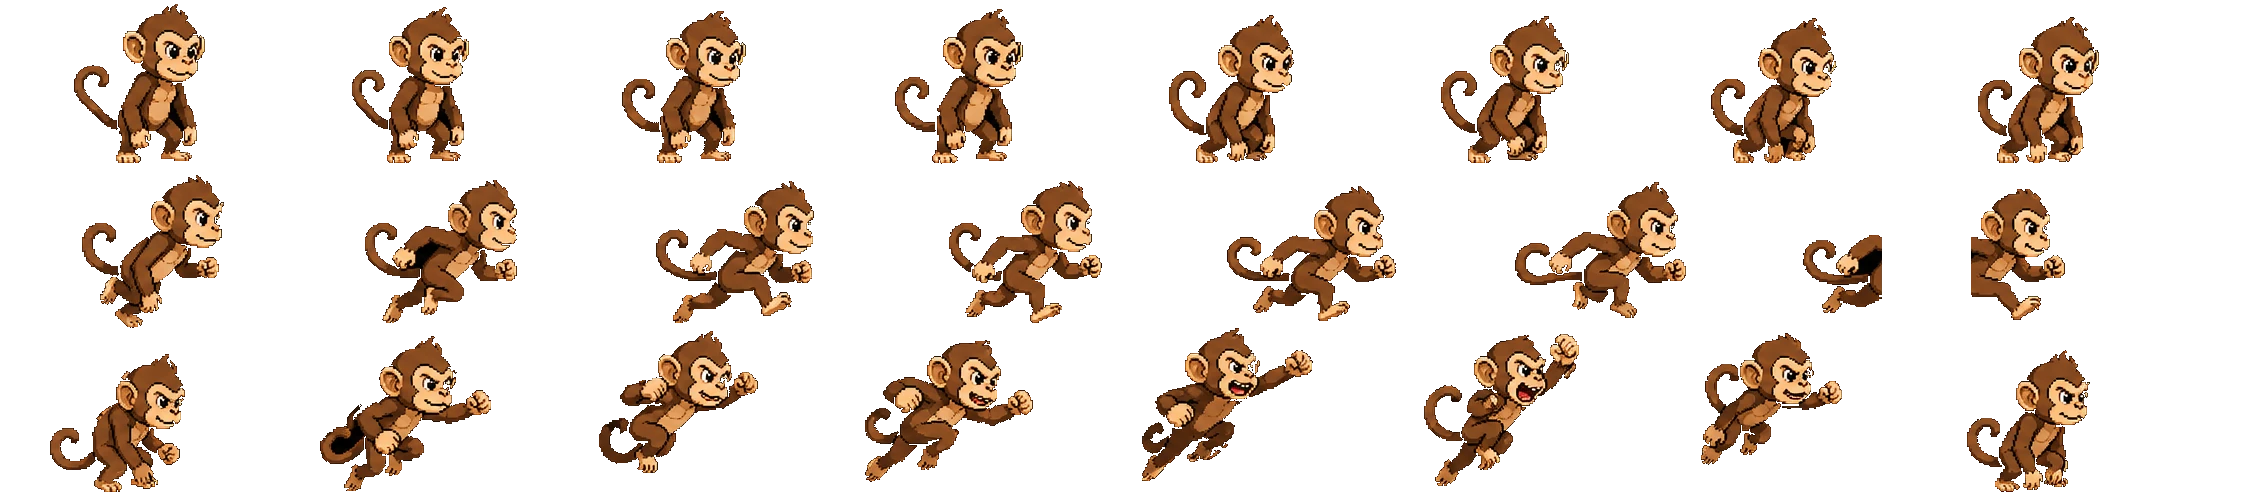
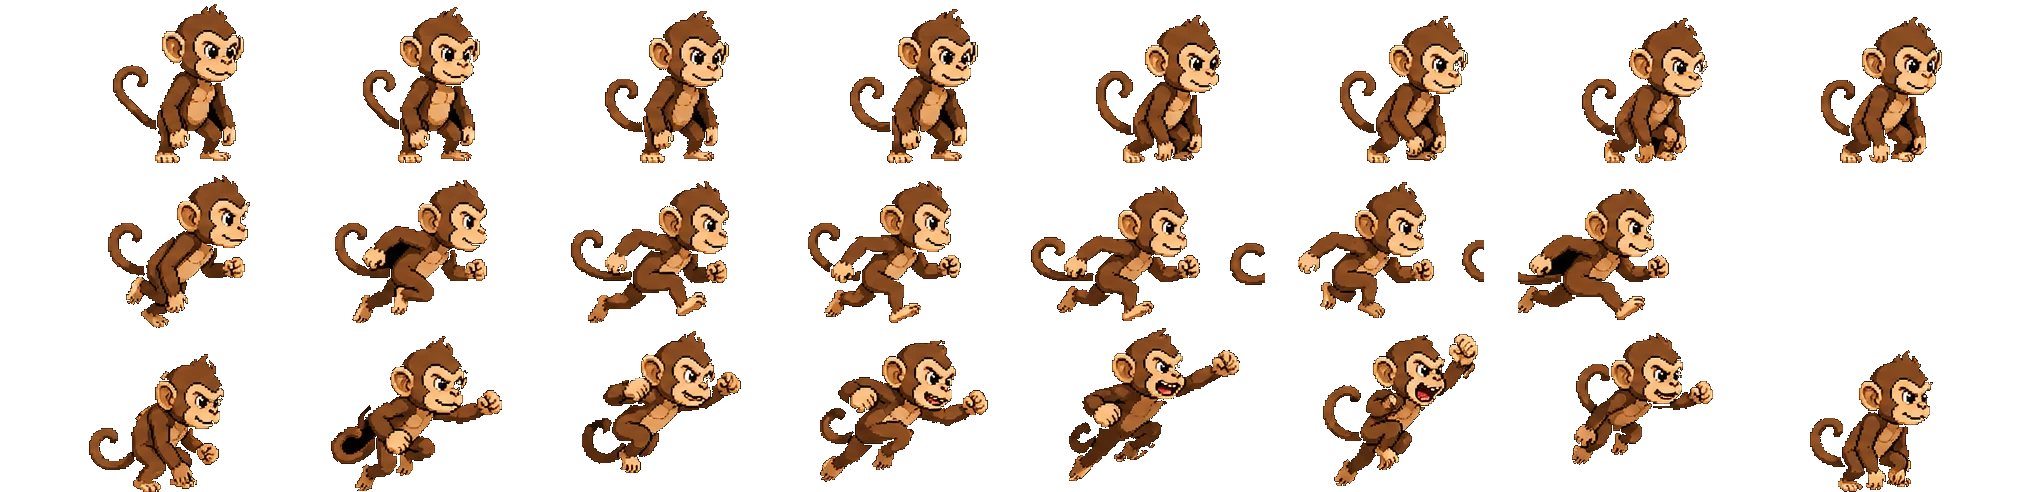
fix(assets): 칸 수를 줄마다 따로 잡는다
지적대로 아직 잘려 있었다. 시트 하나에 칸 수를 하나만 두고 있었는데,
**한 시트 안에서도 줄마다 프레임 수가 다르다** — 말은 8 / 7 / 8 이다.
걷는 줄의 말 7마리를 8칸으로 가르니 한 마리가 꼬리와 머리로 쪼개졌다.

이제 줄마다 따로 센다. 한 마리의 폭을 먼저 구하고, 구간이 그 폭의 몇 배인지로 센다.

- 기준 줄은 구간이 4~12개로 나뉜 줄 중 가장 많이 나뉜 줄이다.
  무작정 가장 많이 나뉜 줄을 고르면 조각난 줄이 뽑혀 기준폭이 다리 한 짝이 된다
  (실제로 17px 로 잡혀 한 줄이 72칸이 됐다)
- 한 마리로 볼 폭의 상한은 기준폭의 1.45배. 달리는 자세는 서 있는 자세보다 넓다 —
  말은 164 대 212 다

칸 경계는 격자 자리에서 출발해 실제로 비어 있는 열로 옮긴다.
격자 그대로면 꼬리가 날아가고, 빈 구간만 보면 한 마리 안(목·허리)을 가른다.

겹쳐 그려져 빈 열이 없는 자리는 가장 얇은 열로 가르는데 부리를 스칠 때가 있어,
본체의 3% 도 안 되는 덩어리는 털어 낸다.

줄마다 프레임 수가 다르므로 SheetMeta 에 frames 를 실었다.
없으면 걷다가 빈 칸에서 동물이 한 번씩 사라진다.

22종 24칸을 전부 눈으로 확인했다.

diff --git a/src/assets/animalSheets.ts b/src/assets/animalSheets.ts
@@ -38,29 +38,31 @@ export interface AnimalSheetAsset {
   /** 격자 크기. 시트마다 다르다 — 닭과 까마귀와 공작은 7칸이다. */
   readonly cols: number
   readonly rows: number
+  /** 줄마다의 실제 프레임 수. 한 시트 안에서도 다르다 — 말은 8/7/8 이다. */
+  readonly frames: readonly number[]
 }
 
 export const ANIMAL_SHEETS: readonly AnimalSheetAsset[] = [
-  { id: 'ALIGATOR', habitat: 'WATER', src: sheet0, fit: 0.8182, baseline: 1.0, frameW: 248, frameH: 88, cols: 8, rows: 3 },
-  { id: 'BELUGA', habitat: 'WATER', src: sheet1, fit: 0.5329, baseline: 1.0, frameW: 216, frameH: 152, cols: 8, rows: 3 },
-  { id: 'MARLIN', habitat: 'WATER', src: sheet2, fit: 0.6287, baseline: 1.0, frameW: 256, frameH: 167, cols: 8, rows: 3 },
-  { id: 'PENGUIN', habitat: 'WATER', src: sheet3, fit: 0.7317, baseline: 1.0, frameW: 213, frameH: 123, cols: 8, rows: 3 },
-  { id: 'PIRANHA', habitat: 'WATER', src: sheet4, fit: 0.7606, baseline: 1.0, frameW: 219, frameH: 142, cols: 8, rows: 3 },
-  { id: 'SHARK', habitat: 'WATER', src: sheet5, fit: 0.7241, baseline: 1.0, frameW: 240, frameH: 145, cols: 8, rows: 3 },
-  { id: 'TURTLE', habitat: 'WATER', src: sheet6, fit: 0.6352, baseline: 1.0, frameW: 224, frameH: 159, cols: 8, rows: 3 },
-  { id: 'BEAR', habitat: 'LAND', src: sheet7, fit: 0.678, baseline: 1.0, frameW: 218, frameH: 205, cols: 8, rows: 3 },
-  { id: 'HORSE', habitat: 'LAND', src: sheet8, fit: 0.8102, baseline: 1.0, frameW: 321, frameH: 216, cols: 8, rows: 3 },
-  { id: 'MONKEY', habitat: 'LAND', src: sheet9, fit: 0.9756, baseline: 1.0, frameW: 281, frameH: 164, cols: 8, rows: 3 },
-  { id: 'ORANGUTAN', habitat: 'LAND', src: sheet10, fit: 0.6944, baseline: 1.0, frameW: 237, frameH: 216, cols: 8, rows: 3 },
-  { id: 'POLARBEAR', habitat: 'LAND', src: sheet11, fit: 0.6452, baseline: 1.0, frameW: 213, frameH: 186, cols: 8, rows: 3 },
-  { id: 'RABBIT', habitat: 'LAND', src: sheet12, fit: 0.9839, baseline: 1.0, frameW: 305, frameH: 186, cols: 8, rows: 3 },
-  { id: 'TIGGER', habitat: 'LAND', src: sheet13, fit: 0.7308, baseline: 1.0, frameW: 280, frameH: 156, cols: 8, rows: 3 },
-  { id: 'BUTTERFLY', habitat: 'SKY', src: sheet14, fit: 1.0, baseline: 1.0, frameW: 179, frameH: 163, cols: 8, rows: 3 },
-  { id: 'CHICKEN', habitat: 'SKY', src: sheet15, fit: 1.0, baseline: 1.0, frameW: 233, frameH: 185, cols: 7, rows: 3 },
-  { id: 'CROW', habitat: 'SKY', src: sheet16, fit: 1.0, baseline: 1.0, frameW: 252, frameH: 194, cols: 7, rows: 3 },
-  { id: 'DRAGONFLY', habitat: 'SKY', src: sheet17, fit: 1.0, baseline: 1.0, frameW: 213, frameH: 136, cols: 8, rows: 3 },
-  { id: 'PARROT', habitat: 'SKY', src: sheet18, fit: 0.855, baseline: 1.0, frameW: 239, frameH: 200, cols: 8, rows: 3 },
-  { id: 'PEACOCK', habitat: 'SKY', src: sheet19, fit: 0.9412, baseline: 1.0, frameW: 275, frameH: 187, cols: 7, rows: 3 },
-  { id: 'PIGEON', habitat: 'SKY', src: sheet20, fit: 0.9935, baseline: 1.0, frameW: 182, frameH: 153, cols: 8, rows: 3 },
-  { id: 'SPAROW', habitat: 'SKY', src: sheet21, fit: 0.9209, baseline: 1.0, frameW: 231, frameH: 177, cols: 8, rows: 3 },
+  { id: 'ALIGATOR', habitat: 'WATER', src: sheet0, fit: 0.8182, baseline: 1.0, frameW: 233, frameH: 88, cols: 8, rows: 3, frames: [8, 8, 8] },
+  { id: 'BELUGA', habitat: 'WATER', src: sheet1, fit: 0.5329, baseline: 1.0, frameW: 216, frameH: 152, cols: 8, rows: 3, frames: [8, 8, 8] },
+  { id: 'MARLIN', habitat: 'WATER', src: sheet2, fit: 0.6287, baseline: 1.0, frameW: 226, frameH: 167, cols: 8, rows: 3, frames: [8, 8, 8] },
+  { id: 'PENGUIN', habitat: 'WATER', src: sheet3, fit: 0.7317, baseline: 1.0, frameW: 213, frameH: 123, cols: 8, rows: 3, frames: [8, 8, 8] },
+  { id: 'PIRANHA', habitat: 'WATER', src: sheet4, fit: 0.7606, baseline: 1.0, frameW: 212, frameH: 142, cols: 8, rows: 3, frames: [8, 8, 8] },
+  { id: 'SHARK', habitat: 'WATER', src: sheet5, fit: 0.7241, baseline: 1.0, frameW: 217, frameH: 145, cols: 8, rows: 3, frames: [8, 8, 8] },
+  { id: 'TURTLE', habitat: 'WATER', src: sheet6, fit: 0.6352, baseline: 1.0, frameW: 224, frameH: 159, cols: 8, rows: 3, frames: [8, 8, 8] },
+  { id: 'BEAR', habitat: 'LAND', src: sheet7, fit: 0.678, baseline: 1.0, frameW: 218, frameH: 205, cols: 8, rows: 3, frames: [8, 8, 8] },
+  { id: 'HORSE', habitat: 'LAND', src: sheet8, fit: 0.8102, baseline: 1.0, frameW: 223, frameH: 216, cols: 8, rows: 3, frames: [8, 7, 8] },
+  { id: 'MONKEY', habitat: 'LAND', src: sheet9, fit: 0.9756, baseline: 1.0, frameW: 253, frameH: 164, cols: 8, rows: 3, frames: [8, 7, 8] },
+  { id: 'ORANGUTAN', habitat: 'LAND', src: sheet10, fit: 0.6944, baseline: 1.0, frameW: 270, frameH: 216, cols: 8, rows: 3, frames: [8, 7, 8] },
+  { id: 'POLARBEAR', habitat: 'LAND', src: sheet11, fit: 0.6452, baseline: 1.0, frameW: 213, frameH: 186, cols: 8, rows: 3, frames: [8, 8, 8] },
+  { id: 'RABBIT', habitat: 'LAND', src: sheet12, fit: 0.9839, baseline: 1.0, frameW: 202, frameH: 186, cols: 8, rows: 3, frames: [8, 7, 8] },
+  { id: 'TIGGER', habitat: 'LAND', src: sheet13, fit: 0.7308, baseline: 1.0, frameW: 267, frameH: 156, cols: 8, rows: 3, frames: [8, 8, 8] },
+  { id: 'BUTTERFLY', habitat: 'SKY', src: sheet14, fit: 1.0, baseline: 1.0, frameW: 179, frameH: 163, cols: 8, rows: 3, frames: [8, 8, 8] },
+  { id: 'CHICKEN', habitat: 'SKY', src: sheet15, fit: 1.0, baseline: 1.0, frameW: 233, frameH: 185, cols: 7, rows: 3, frames: [7, 7, 7] },
+  { id: 'CROW', habitat: 'SKY', src: sheet16, fit: 1.0, baseline: 1.0, frameW: 252, frameH: 194, cols: 7, rows: 3, frames: [7, 7, 7] },
+  { id: 'DRAGONFLY', habitat: 'SKY', src: sheet17, fit: 1.0, baseline: 1.0, frameW: 213, frameH: 136, cols: 8, rows: 3, frames: [8, 8, 8] },
+  { id: 'PARROT', habitat: 'SKY', src: sheet18, fit: 0.855, baseline: 1.0, frameW: 231, frameH: 200, cols: 8, rows: 3, frames: [8, 8, 8] },
+  { id: 'PEACOCK', habitat: 'SKY', src: sheet19, fit: 0.9412, baseline: 1.0, frameW: 275, frameH: 187, cols: 7, rows: 3, frames: [7, 7, 7] },
+  { id: 'PIGEON', habitat: 'SKY', src: sheet20, fit: 0.9935, baseline: 1.0, frameW: 182, frameH: 153, cols: 8, rows: 3, frames: [8, 8, 8] },
+  { id: 'SPAROW', habitat: 'SKY', src: sheet21, fit: 0.9209, baseline: 1.0, frameW: 231, frameH: 177, cols: 8, rows: 3, frames: [8, 8, 8] },
 ]

diff --git a/src/render/animal/SheetRenderer.ts b/src/render/animal/SheetRenderer.ts
@@ -24,7 +24,9 @@ export class SheetRenderer implements AnimalRenderer {
 
   draw(ctx: CanvasRenderingContext2D, state: AnimalRenderState, view: ViewBox): void {
     const row = Math.max(0, this.meta.motions.indexOf(state.motion))
-    const frame = Math.floor(state.motionTime * this.meta.fps) % this.meta.cols
+    // 줄마다 프레임 수가 다를 수 있다. 모르면 빈 칸에서 동물이 한 번씩 사라진다.
+    const count = this.meta.frames?.[row] ?? this.meta.cols
+    const frame = Math.floor(state.motionTime * this.meta.fps) % Math.max(1, count)
 
     // `scale` 은 **동물의 높이**지 프레임의 높이가 아니다.
     // 여백이 있는 시트는 프레임을 그만큼 크게 그려야 동물이 제 크기로 나온다.

diff --git a/src/domain/animal.ts b/src/domain/animal.ts
@@ -29,6 +29,13 @@ export interface SheetMeta {
   fit?: number
   /** 프레임 안에서 발이 놓이는 y (0..1). 기본 1(프레임 아래변). */
   baseline?: number
+  /**
+   * 줄마다의 실제 프레임 수. 없으면 모든 줄이 `cols` 만큼이라고 본다.
+   *
+   * 한 시트 안에서도 줄마다 다르다 — 말은 서 있는 줄이 8칸인데 걷는 줄은 7칸이다.
+   * 이걸 모르면 걷다가 빈 칸에서 동물이 한 번씩 사라진다.
+   */
+  frames?: readonly number[]
 }
 
 /**

diff --git a/src/store/gameStore.ts b/src/store/gameStore.ts
@@ -504,6 +504,7 @@ export const useGameStore = create<GameState>((set, get) => ({
         imageId: sheetImageId(item.catalogId),
         cols: item.sheet.cols,
         rows: item.sheet.rows,
+        frames: item.sheet.frames,
         // 한 줄이 1초에 한 바퀴 돈다. 칸이 7개면 조금 느리게 돈다.
         fps: item.sheet.cols,
         motions: ['IDLE', 'MOVE', 'SIGNATURE'],

diff --git a/scripts/prepare-assets.py b/scripts/prepare-assets.py
@@ -57,8 +57,13 @@ ANIMAL_PREFIX = "sprite_animal_"
 ANIMAL_THRESHOLD = 16
 # 작은 틈을 메울 때의 기준(px). 몸에서 떨어져 나온 다리를 몸에 붙이는 데 쓴다.
 GAP_CLOSE = 12
-# 한 줄에 이보다 많은 칸이 나오면 조각난 것으로 본다.
-MAX_FRAMES = 10
+# 한 줄의 칸 수로 그럴듯한 범위. 벗어나면 붙었거나 조각난 줄로 본다.
+FRAMES_MIN = 4
+FRAMES_MAX = 12
+# 한 마리로 볼 폭의 상한(기준폭 대비). 달리는 자세는 서 있는 자세보다 넓다 — 말은 164 대 212 다.
+SINGLE_SLACK = 1.45
+# 본체 대비 이 비율보다 작은 덩어리는 옆 그림에서 스친 조각으로 본다.
+DUST_RATIO = 0.03
 # 붙어 버린 칸을 가를 때 기대 위치에서 옮길 수 있는 폭(칸 폭 대비).
 SEAM_REACH = 0.25
 
@@ -174,77 +179,121 @@ def close_gaps(spans: list[tuple[int, int]], min_gap: int) -> list[tuple[int, in
     return [(lo, hi) for lo, hi in out]
 
 
-def frame_count(mask: np.ndarray, rows: list[tuple[int, int]]) -> int:
-    """
-    이 시트가 한 줄에 **몇 칸**인지.
-
-    8칸으로 정해 두면 안 된다 — 닭과 까마귀는 7칸, 공작도 7칸이다.
-    그렇다고 빈 구간을 세기만 해도 안 된다. 옆 프레임과 붙으면 수가 줄고,
-    다리가 몸에서 떨어지면 늘어난다 (말의 필살기 줄은 구간이 16개다).
-
-    그래서 **원본 그대로** 세어 보고, **작은 틈을 메우고도** 세어 본다.
-    전자는 붙은 경우에 약하고 후자는 조각난 경우에 약하니, 둘 중 큰 쪽을 쓴다.
-    말이 안 되게 큰 수(조각난 줄)는 버린다.
-    """
-    counts = [1]
-    for min_gap in (0, GAP_CLOSE):
-        for y0, y1 in rows:
-            spans = runs_of(mask[y0:y1].any(axis=0))
-            if min_gap:
-                spans = close_gaps(spans, min_gap)
-            if 1 <= len(spans) <= MAX_FRAMES:
-                counts.append(len(spans))
-    return max(counts)
-
-
-def row_cells(band: np.ndarray, count: int) -> list[tuple[int, int]]:
-    """
-    한 줄을 정확히 `count` 칸으로 나눈다. 각 칸은 그 프레임의 가로 범위다.
-
-    **격자로 자르지 않는다.** 그림이 칸 간격에 딱 맞게 그려져 있지 않아
-    격자로 자르면 꼬리와 주둥이가 날아간다. 대신 실제로 비어 있는 자리에서 나눈다.
-
-    구간이 남으면 가장 좁은 틈부터 메워 수를 맞추고,
-    모자라면 붙어 버린 구간을 **세로 잉크가 가장 얇은 열**에서 가른다.
-    """
+def _spans(band: np.ndarray, min_gap: int = 0) -> list[tuple[int, int]]:
     spans = runs_of(band.any(axis=0))
-    if not spans:
-        return [(0, band.shape[1])]
+    return close_gaps(spans, min_gap) if min_gap else spans
 
-    # 많으면 좁은 틈부터 메운다. 몸에서 떨어진 다리가 제 몸으로 돌아간다.
-    while len(spans) > count:
-        gaps = [(spans[i + 1][0] - spans[i][1], i) for i in range(len(spans) - 1)]
-        _, i = min(gaps)
-        spans[i : i + 2] = [(spans[i][0], spans[i + 1][1])]
 
-    # 모자라면 넓은 구간을 가른다. 몇 칸이 붙었는지는 폭으로 가늠한다.
+def single_width(mask: np.ndarray, rows: list[tuple[int, int]]) -> float:
+    """
+    이 시트에서 **한 마리가 차지하는 폭**.
+
+    기준 줄은 구간이 그럴듯한 개수(4~12)로 나뉜 줄 중 가장 많이 나뉜 줄이다.
+    가장 많이 나뉜 줄을 무작정 고르면 안 된다 — 다리가 몸에서 떨어진 줄은
+    구간이 16~17개까지 늘어나고, 그 중앙값은 다리 한 짝의 폭이다
+    (실제로 기준폭이 17px 로 잡혀 한 줄이 72칸이 된 적이 있다).
+    """
+    best: list[tuple[int, int]] = []
+    for y0, y1 in rows:
+        for spans in (_spans(mask[y0:y1]), _spans(mask[y0:y1], GAP_CLOSE)):
+            if FRAMES_MIN <= len(spans) <= FRAMES_MAX and len(spans) > len(best):
+                best = spans
+    if not best:
+        best = max((_spans(mask[y0:y1]) for y0, y1 in rows), key=len, default=[(0, mask.shape[1])])
+    return float(np.median([hi - lo for lo, hi in best])) or 1.0
+
+
+def row_frames(mask: np.ndarray, rows: list[tuple[int, int]], single: float) -> list[int]:
+    """
+    **줄마다** 프레임이 몇 개인지.
+
+    한 시트 안에서도 줄마다 다르다 — 말은 서 있는 줄이 8칸인데 걷는 줄은 **7칸**이다.
+    시트 하나에 한 숫자를 쓰면 그 줄의 말 한 마리가 두 칸으로 쪼개진다.
+
+    구간 하나가 한 마리인지 여러 마리가 붙은 것인지는 폭으로 가른다.
+    달리는 자세는 서 있는 자세보다 넓으므로 여유를 둔다 — 말은 164 대 212 다.
+    """
+    # 모든 구간이 한 마리 폭인 줄은 믿을 만하다. 그런 줄의 최대 개수를 상한으로 삼는다.
+    cap = 0
+    for y0, y1 in rows:
+        for spans in (_spans(mask[y0:y1]), _spans(mask[y0:y1], GAP_CLOSE)):
+            if not (FRAMES_MIN <= len(spans) <= FRAMES_MAX):
+                continue
+            if all(hi - lo <= single * SINGLE_SLACK for lo, hi in spans):
+                cap = max(cap, len(spans))
+
+    counts = []
+    for y0, y1 in rows:
+        total = 0
+        for lo, hi in _spans(mask[y0:y1], GAP_CLOSE):
+            width = hi - lo
+            total += 1 if width <= single * SINGLE_SLACK else max(1, round(width / single))
+        counts.append(min(total, cap) if cap else total)
+    return counts
+
+
+def row_cells(band: np.ndarray, count: int, width: int) -> list[tuple[int, int]]:
+    """
+    한 줄을 정확히 `count` 칸으로 나눈다.
+
+    경계는 **격자 자리에서 출발해 실제로 비어 있는 열로 옮긴다.**
+
+    격자 그대로 자르면 그림이 칸 간격보다 넓은 곳에서 꼬리와 주둥이가 날아간다.
+    반대로 빈 구간만 보고 나누면 **한 마리 안을 가른다** —
+    두 프레임이 붙어 있으면 그 사이보다 한 마리 안(목·허리)이 더 얇을 수 있기 때문이다.
+
+    프레임은 고르게 놓여 있으니 격자가 "어디쯤"을, 빈 열이 "정확히 어디"를 알려 준다.
+    """
+    pitch = width / count
     profile = band.sum(axis=0)
-    while len(spans) < count:
-        typical = np.median([hi - lo for lo, hi in spans])
-        widest = max(range(len(spans)), key=lambda i: spans[i][1] - spans[i][0])
-        lo, hi = spans[widest]
-        parts = max(2, min(count - len(spans) + 1, round((hi - lo) / max(1.0, typical))))
-        seam = _thinnest(profile, lo, hi, parts)
-        spans[widest : widest + 1] = [(lo, seam), (seam, hi)]
+    reach = max(1, int(pitch * SEAM_REACH))
 
-    return spans
+    edges = [0]
+    for i in range(1, count):
+        nominal = pitch * i
+        lo = max(1, int(nominal - reach))
+        hi = min(width - 1, int(nominal + reach))
+        if hi <= lo:
+            edges.append(int(nominal))
+            continue
+
+        window = profile[lo:hi]
+        empty = np.where(window == 0)[0]
+        if empty.size:
+            # 빈 열 중 격자 자리에 가장 가까운 것. 두 그림 사이가 여기다.
+            pick = int(empty[np.argmin(np.abs(empty + lo - nominal))])
+        else:
+            # 겹쳐 그려져 빈 열이 없다. 가장 얇은 자리로 옮긴다.
+            pick = int(np.argmin(window))
+        edges.append(lo + pick)
+
+    edges.append(width)
+    return list(zip(edges, edges[1:]))
 
 
-def _thinnest(profile: np.ndarray, lo: int, hi: int, parts: int) -> int:
+def drop_dust(piece: np.ndarray) -> np.ndarray:
     """
-    `lo..hi` 를 `parts` 로 나눌 때 첫 경계 자리.
+    칸 안의 아주 작은 조각을 턴다.
 
-    기대 위치 언저리에서 세로 잉크가 가장 얇은 열을 고른다.
-    두 그림이 만나는 자리는 어디든 몸통 한복판보다 얇다.
-    찾는 범위를 묶어 두지 않으면 목이나 허리 같은 **한 마리 안의 얇은 곳**을 자른다.
+    겹쳐 그려져 빈 열이 없는 자리에서는 가장 얇은 열로 가르는데, 그게 부리나
+    날개 끝을 스칠 때가 있다. 그러면 옆 그림의 부리 조각이 이 칸에 남는다.
+    본체의 몇 %도 안 되는 덩어리는 이 동물의 일부가 아니다 —
+    몸에서 떨어져 나온 다리는 이보다 훨씬 크다.
     """
-    step = (hi - lo) / parts
-    nominal = int(round(lo + step))
-    reach = max(1, int(step * SEAM_REACH))
-    a, b = max(lo + 1, nominal - reach), min(hi - 1, nominal + reach)
-    if b <= a:
-        return nominal
-    return a + int(np.argmin(profile[a:b]))
+    alpha = piece[..., 3] > 0
+    if not alpha.any():
+        return piece
+
+    labels, count = ndimage.label(alpha)
+    if count <= 1:
+        return piece
+
+    sizes = ndimage.sum(alpha, labels, range(1, count + 1))
+    floor = max(sizes) * DUST_RATIO
+    for i, size in enumerate(sizes, start=1):
+        if size < floor:
+            piece[labels == i] = 0
+    return piece
 
 
 def prepare_animal(src: Path) -> dict[str, object] | None:
@@ -253,10 +302,10 @@ def prepare_animal(src: Path) -> dict[str, object] | None:
 
     순서는 셋이다.
       1. 검은 배경을 지운다
-      2. 줄을 찾고, 줄마다 **칸의 실제 범위**를 찾는다 (7칸이든 8칸이든 상관없다)
+      2. 줄을 찾고, **줄마다** 칸의 실제 범위를 찾는다 (7칸이든 8칸이든 상관없다)
       3. 칸마다 잘라 균등 격자로 다시 짠다
 
-    자를 때 기준점은 가로가 **칸의 격자 자리**, 세로가 **그 줄의 발끝**이다.
+    자를 때 기준점은 가로가 **그 줄 격자의 칸 자리**, 세로가 **그 줄의 발끝**이다.
     둘 다 프레임이 바뀌어도 움직이지 않는 자리라 상대 위치가 그대로 보존된다 —
     칸마다 내용을 가운데로 맞추면 다리를 뻗은 프레임과 모은 프레임의 폭이 달라
     몸통이 좌우로 튄다.
@@ -271,17 +320,19 @@ def prepare_animal(src: Path) -> dict[str, object] | None:
     cut = cut_black_background(Image.open(src), ANIMAL_THRESHOLD)
     rgba = np.array(cut)
     mask = rgba[..., 3] > 0
-    height, width = mask.shape
+    _, width = mask.shape
 
     rows = runs_of(mask.any(axis=1))
     if not rows:
         print(f"  [건너뜀] {src.name} 내용이 없음")
         return None
 
-    cols = frame_count(mask, rows)
-    cells = [row_cells(mask[y0:y1], cols) for y0, y1 in rows]
+    single = single_width(mask, rows)
+    frames = row_frames(mask, rows, single)
+    cells = [row_cells(mask[y0:y1], frames[r], width) for r, (y0, y1) in enumerate(rows)]
+    cols = max(frames)
 
-    # 칸마다 잉크 상자. 옆 칸의 그림은 애초에 범위 밖이라 들어오지 않는다.
+    # 칸마다 잉크 상자. 옆 칸의 그림은 범위 밖이라 들어오지 않는다.
     boxes: list[list[tuple[int, int, int, int] | None]] = []
     for r, (y0, y1) in enumerate(rows):
         band = mask[y0:y1]
@@ -296,11 +347,11 @@ def prepare_animal(src: Path) -> dict[str, object] | None:
                               x0 + int(xs.max()) + 1, int(ys.max()) + 1))
         boxes.append(row_boxes)
 
-    pitch = width / cols
     bottoms = [max((b[3] for b in row if b), default=0) for row in boxes]
 
     lefts, rights, tops = [], [], []
     for r, row in enumerate(boxes):
+        pitch = width / frames[r]
         for c, box in enumerate(row):
             if not box:
                 continue
@@ -323,6 +374,7 @@ def prepare_animal(src: Path) -> dict[str, object] | None:
     sheet = Image.new("RGBA", (fw * cols, fh * len(rows)), (0, 0, 0, 0))
     for r, (y0, y1) in enumerate(rows):
         band = rgba[y0:y1]
+        pitch = width / frames[r]
         for c, (x0, x1) in enumerate(cells[r]):
             left = round(pitch * (c + 0.5) + box_left)
             top = bottoms[r] + box_top
@@ -333,6 +385,7 @@ def prepare_animal(src: Path) -> dict[str, object] | None:
             if sy1 > sy0 and sx1 > sx0:
                 piece[sy0 - top : sy1 - top, sx0 - left : sx1 - left] = band[sy0:sy1, sx0:sx1]
 
+            piece = drop_dust(piece)
             crop = Image.fromarray(piece, mode="RGBA")
             if scale < 1.0:
                 crop = crop.resize((fw, fh), Image.LANCZOS)
@@ -351,6 +404,7 @@ def prepare_animal(src: Path) -> dict[str, object] | None:
         "file": relative,
         "cols": cols,
         "rows": len(rows),
+        "frames": frames,
         "fit": round(-idle_top / bh, 4),
         "baseline": 1.0,
         "frameW": fw,
@@ -540,6 +594,8 @@ def write_animal_manifest(animals: list[dict[str, object]]) -> None:
         "  /** 격자 크기. 시트마다 다르다 — 닭과 까마귀와 공작은 7칸이다. */",
         "  readonly cols: number",
         "  readonly rows: number",
+        "  /** 줄마다의 실제 프레임 수. 한 시트 안에서도 다르다 — 말은 8/7/8 이다. */",
+        "  readonly frames: readonly number[]",
         "}",
         "",
         "export const ANIMAL_SHEETS: readonly AnimalSheetAsset[] = [",
@@ -549,7 +605,7 @@ def write_animal_manifest(animals: list[dict[str, object]]) -> None:
             f"  {{ id: '{a['id']}', habitat: '{a['habitat']}', src: sheet{i}, "
             f"fit: {a['fit']}, baseline: {a['baseline']}, "
             f"frameW: {a['frameW']}, frameH: {a['frameH']}, "
-            f"cols: {a['cols']}, rows: {a['rows']} }},"
+            f"cols: {a['cols']}, rows: {a['rows']}, frames: {list(a['frames'])} }},"
         )
     lines += ["]", ""]
 
